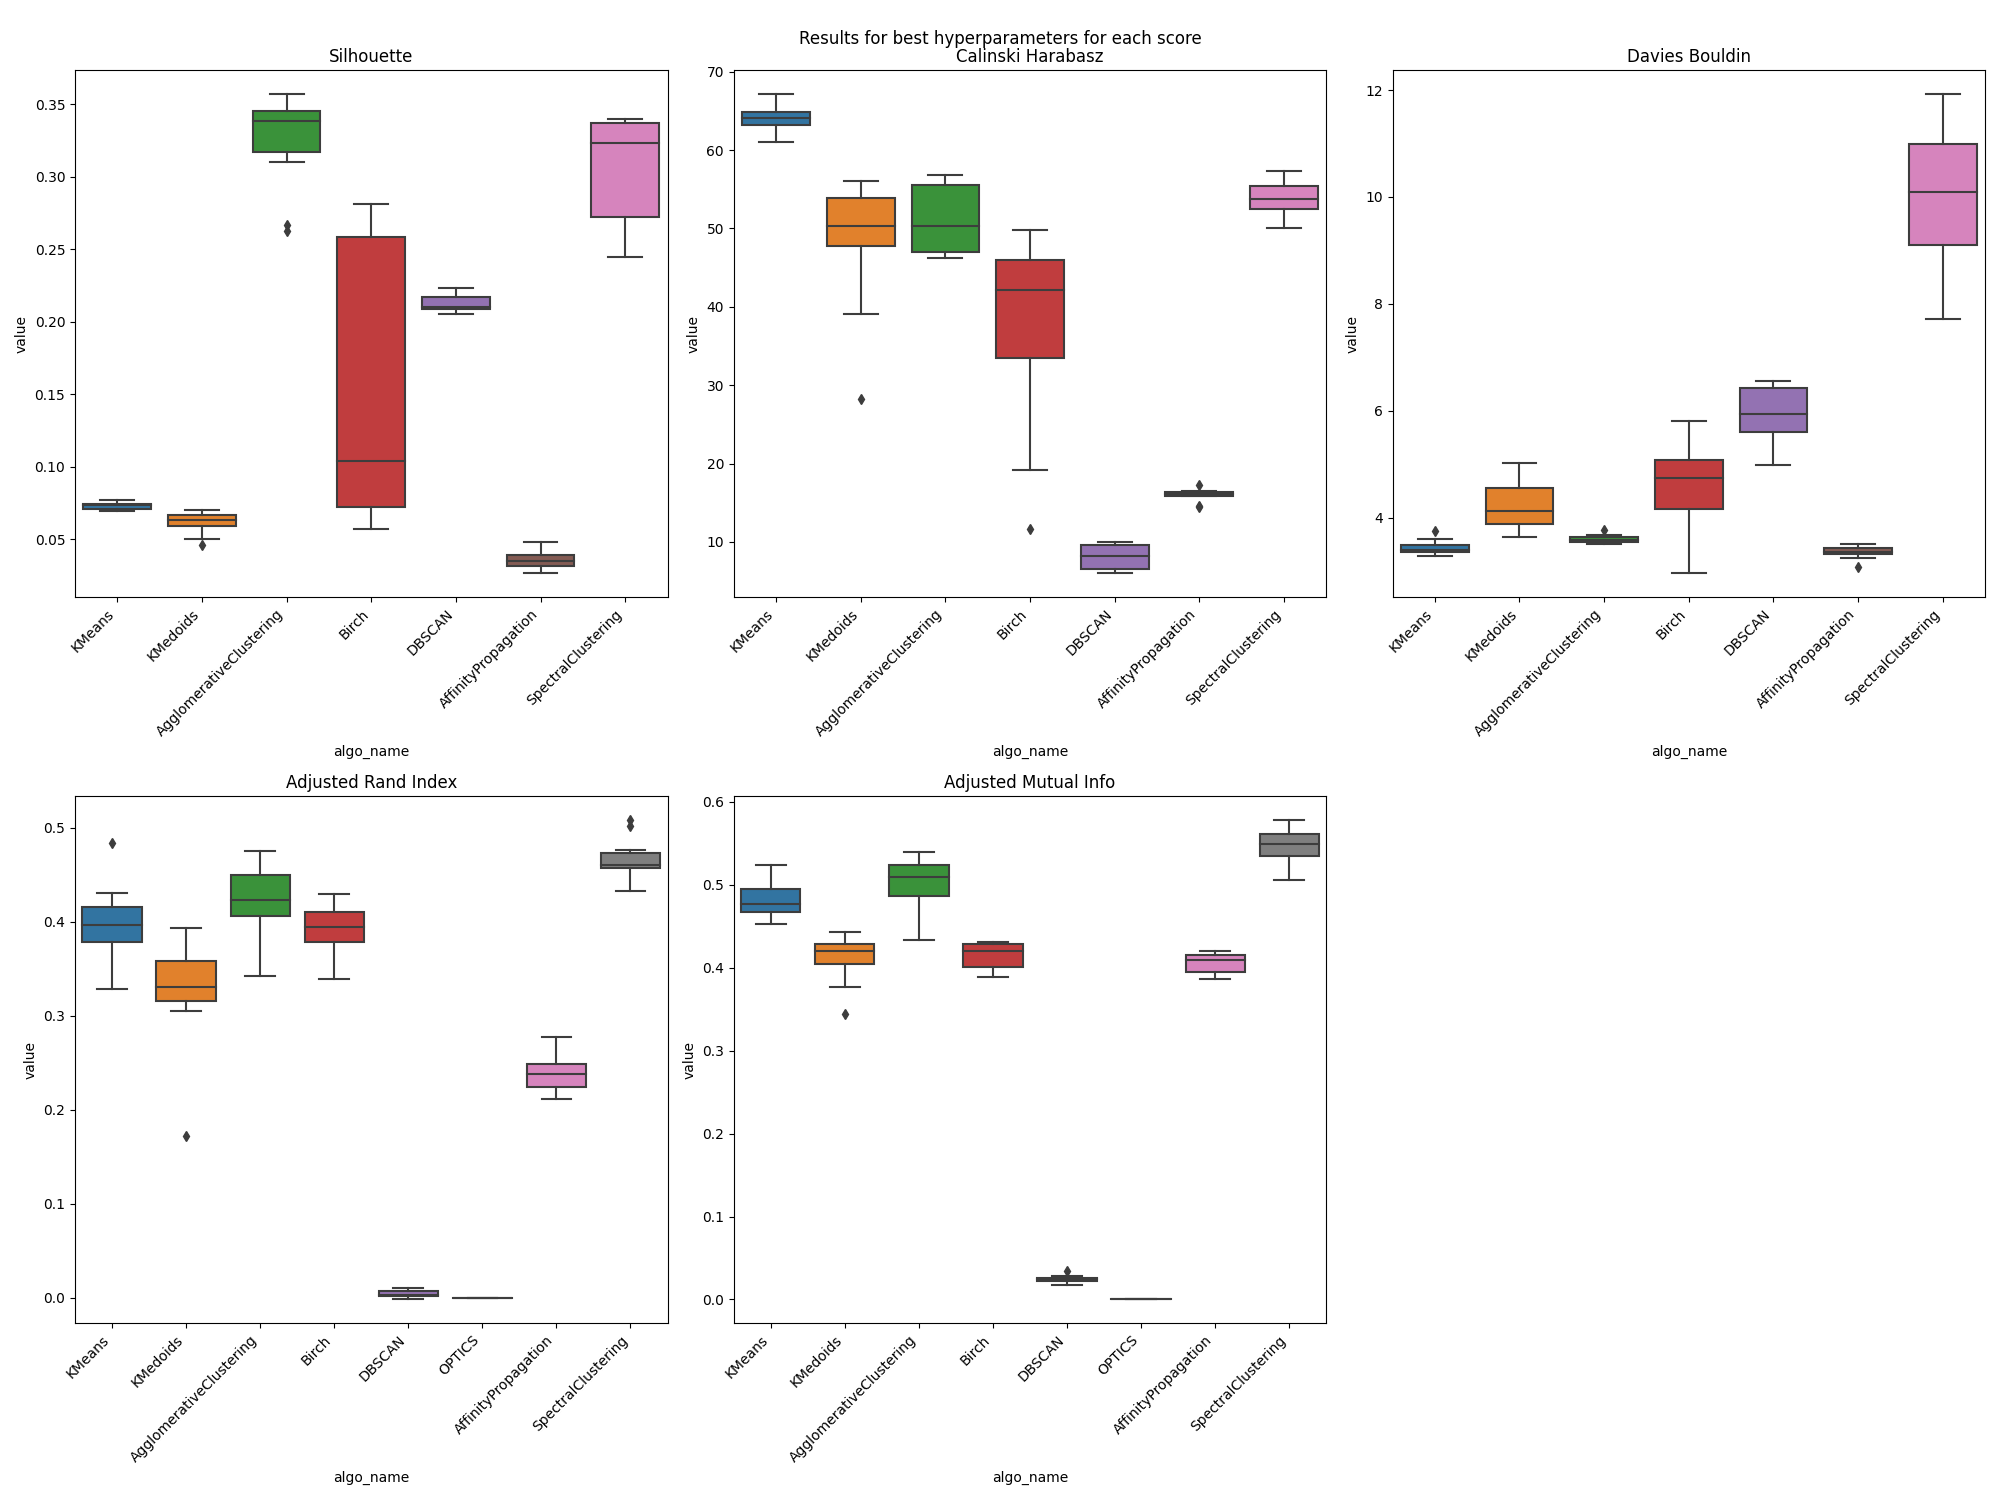
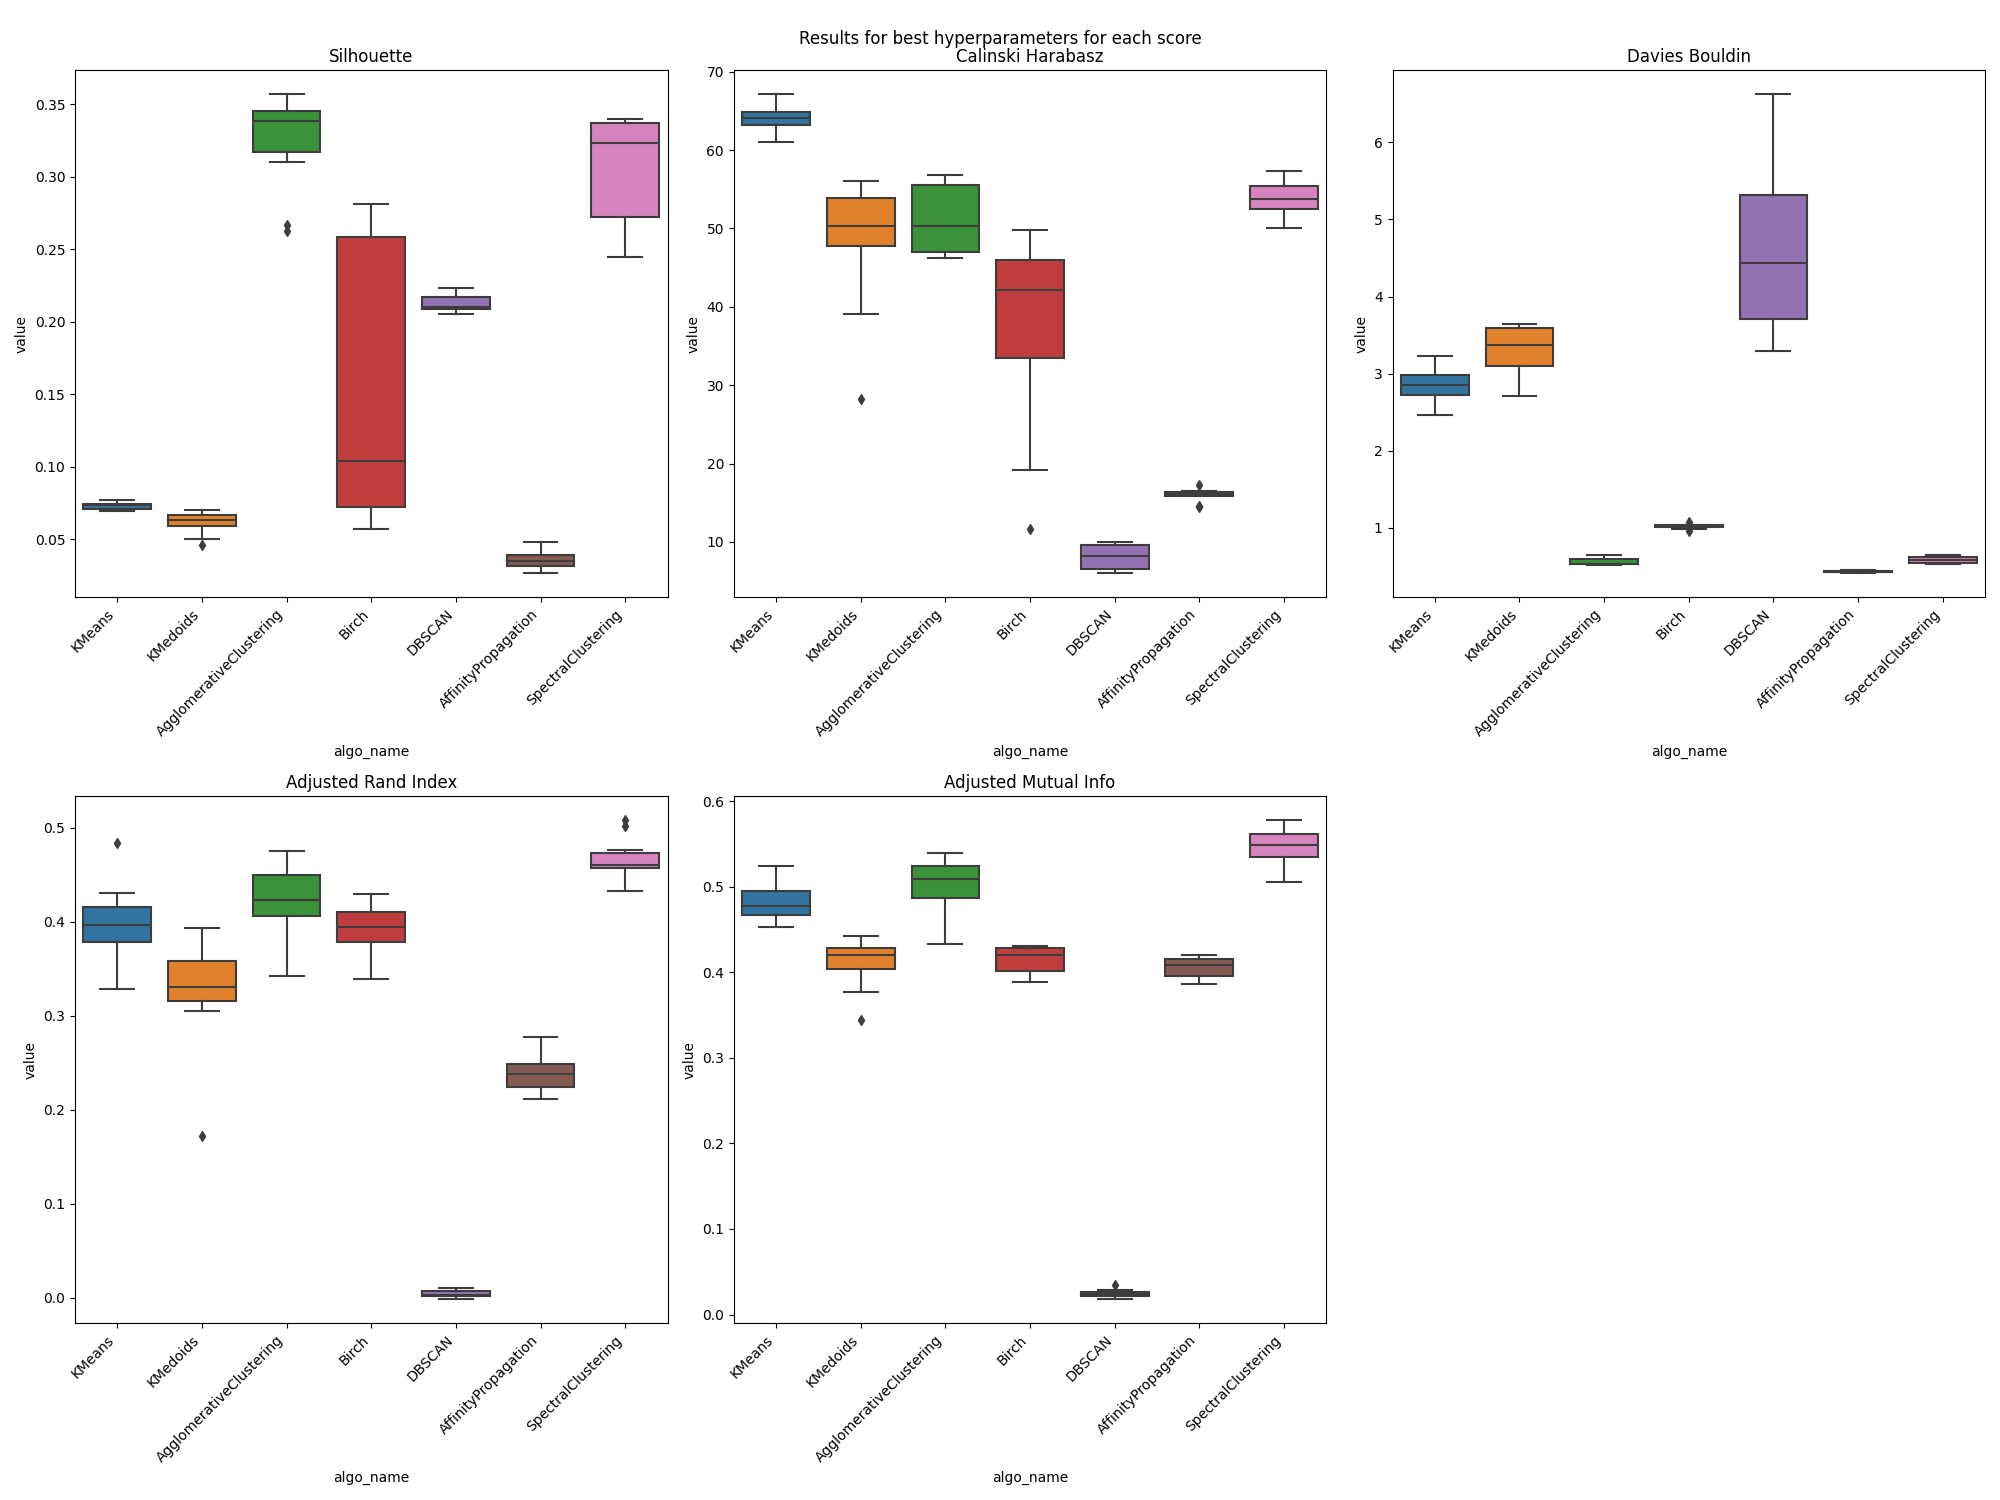
Best config scores bug fix

diff --git a/experiment/results_summary.py b/experiment/results_summary.py
@@ -56,9 +56,11 @@ def boxplot_scores_per_best_config(results_df: pd.DataFrame, save_path: Path) ->
     n_cols = 3
     n_rows = int(len(SCORES) // n_cols + 1 * (len(SCORES) % n_cols > 0))
     fig = plt.figure(figsize=(n_rows * 10, n_cols * 5))
-    for n, (score, _) in enumerate(SCORES):
+    for n, (score, transform_func) in enumerate(SCORES):
         max_ids = (
-            results_df.groupby("algo_name")[f"mean_test_{score}"].transform(max)
+            results_df.groupby("algo_name")[f"mean_test_{score}"].transform(
+                transform_func
+            )
             == results_df.loc[:, f"mean_test_{score}"]
         )
         max_results_df = (
